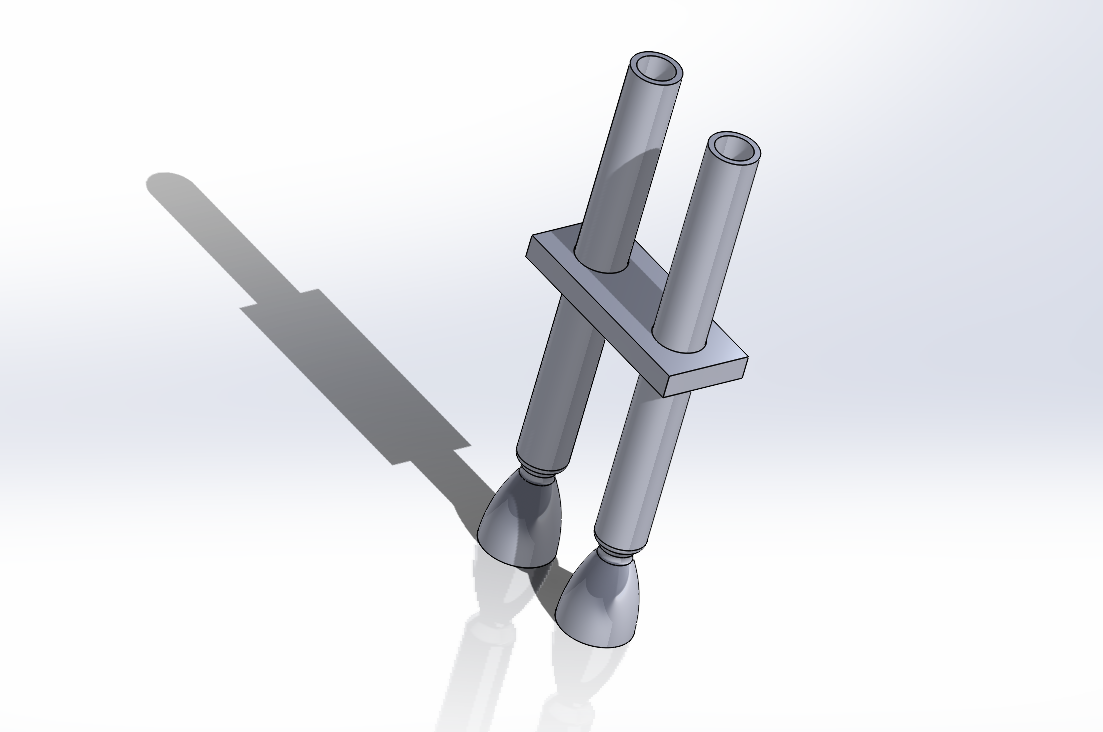
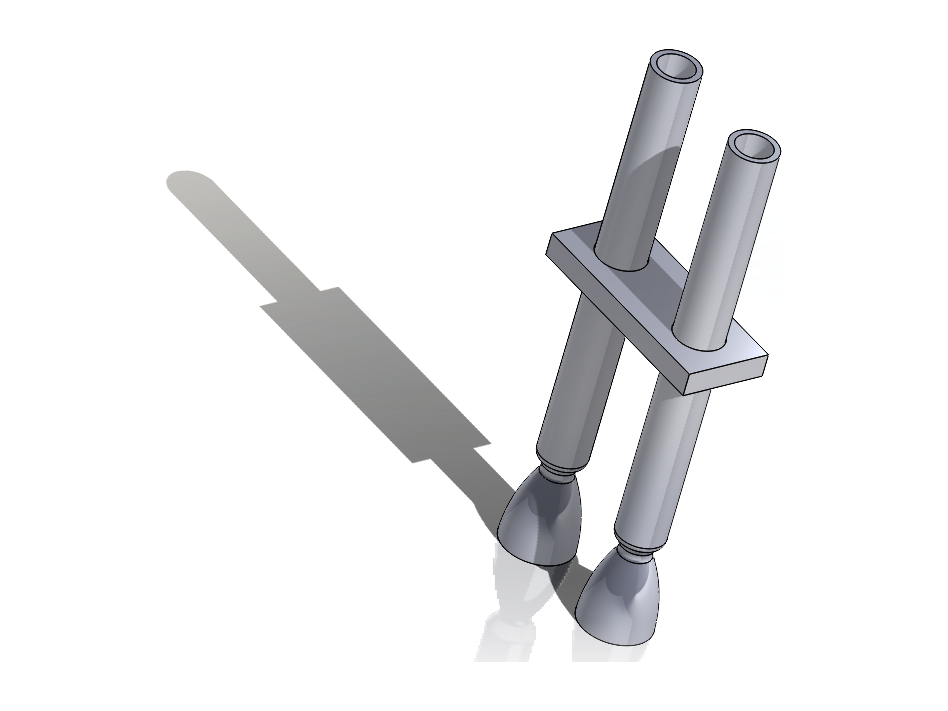
Clean up NASA page images
Flatten the SolidWorks gradient backgrounds to white, remove the selection
highlight and floor reflections, crop tight and consistent. Replace the
cluttered sketch screenshot with a redrawn dimensioned profile (SVG).

diff --git a/projects/lspace/index.html b/projects/lspace/index.html
@@ -48,7 +48,7 @@
       <div class="case-main">
         <h3>The Nozzle</h3>
         <p>I designed the nozzle in SolidWorks as a converging-diverging bell: a 12 mm inlet that narrows at 35° to a 5 mm throat, then expands along a 27 mm bell to a 20 mm exit. The flow is <strong style="color:var(--text)">supersonic but non-reacting: compressed air, not combustion</strong>. Room-temperature air accelerates to supersonic speed just past the throat, and this cold-flow jet stands in for a lander engine's exhaust at lab scale, so the plume can be studied safely without burning any propellant. Every test configuration uses identical copies of this one part, so any difference in results comes from the nozzle layout, not the nozzles themselves.</p>
-        <figure style="margin-top:1.25rem"><img src="../../images/lspace-nozzle-sketch.png" alt="Dimensioned SolidWorks sketch of the nozzle profile" style="background:#fff"><figcaption>Dimensioned nozzle profile in SolidWorks (mm): 35° converging section, throat fillet, 30° initial expansion angle, bell contour to the exit.</figcaption></figure>
+        <figure style="margin-top:1.25rem"><img src="../../images/lspace-nozzle-profile.svg" alt="Nozzle flow-passage profile with dimensions: 12 mm inlet, 35 degree converging section, 5 mm throat, 30 degree initial expansion, 27 mm bell to a 20 mm exit" style="background:var(--card)"><figcaption>Nozzle flow-passage profile (mm), redrawn from my dimensioned SolidWorks sketch.</figcaption></figure>
 
         <div class="results" style="margin-top:1.5rem">
           <div class="result"><strong>5 mm</strong><span>Throat diameter</span></div>

diff --git a/index.html b/index.html
@@ -127,7 +127,7 @@
         </div>
 
         <div class="project">
-          <div class="thumb"><img src="images/lspace-quad-mount.png" alt="SolidWorks model of four nozzles mounted through a square plate" style="object-position:62% 50%"></div>
+          <div class="thumb"><img src="images/lspace-quad-mount.png" alt="SolidWorks model of four nozzles mounted through a square plate"></div>
           <div>
             <h3><a href="projects/lspace/">Multi-Nozzle Plume-Surface Interaction Test Fixture</a></h3>
             <div class="meta">NASA L'Space NPWEE • 2026</div>
